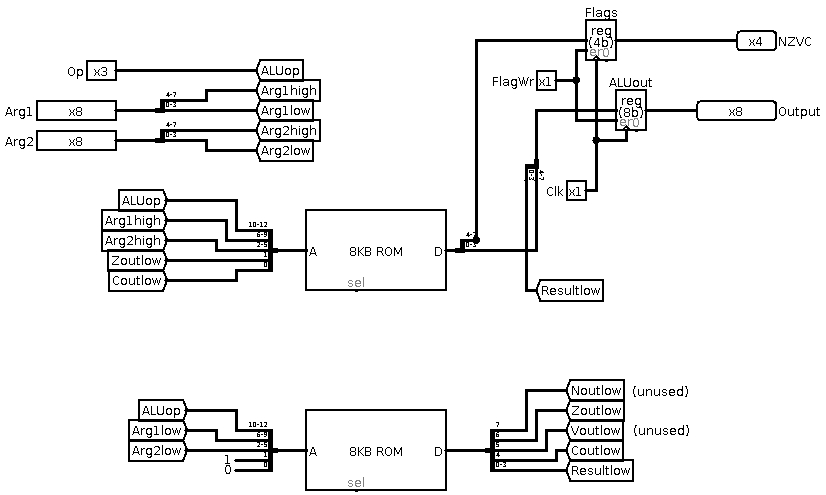
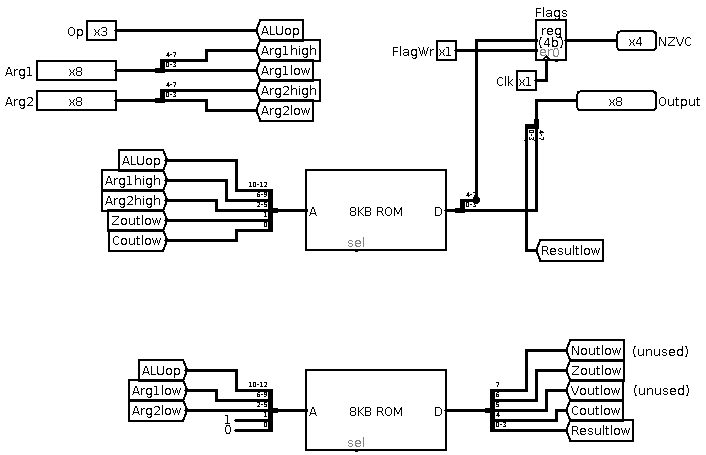
Documenting version 3 of the CPU
The README is not quite complete, but it's mostly there.

Changed region(s): [[0.0, 0.0, 0.9972, 0.6154], [0.1558, 0.7385, 0.966, 1.0], [0.9348, 0.8308, 0.966, 0.8615]]

diff --git a/README.md b/README.md
@@ -2,7 +2,7 @@
 
 ## Warren Toomey, © 2017, GPL3
 
-# Introduction: 8th August 2017
+# Introduction: 22nd August 2017
 
 I stumbled across
 [Ben Eater’s video series on building a working CPU](https://eater.net/8bit/)
@@ -10,49 +10,99 @@ on a breadboard. I had already built some CPUs in the
 [Logisim simulator](http://minnie.tuhs.org/CompArch/Tutes/week03.html) and on
 [an FPGA](http://minnie.tuhs.org/Programs/UcodeCPU/index.html),
 but I hadn’t actually done the wiring by hand.
-I felt constrained by the memory limitations of this Simple As Possible (SAP) CPU, so I decided to design an 8-bit CPU with more instructions and with a larger address space. At the same time, I wondered how few chips I could get away with in the design. Right now, I’m down around 19 chips (on paper) for the CPU proper, not including any I/O or clock circuitry. Here is a quick run-down of the design.
+I felt constrained by the memory limitations of this Simple As Possible (SAP) CPU, so I decided to design an 8-bit CPU with more instructions and with a larger address space. At the same time, I wondered how few chips I could get away with in the design. Right now, the CPU is about 30 chips, not including any I/O or
+clock circuitry. Here is a quick run-down of the design.
 
-My CPU is an 8-bit CPU with a 12-bit address space. There are sixteen opcodes, of which eight of them are ALU operations. There is only one user-visible register, the A register. Each instruction is 16 bits (two bytes) in size:
+My CPU is an 8-bit CPU with a 16-bit address space. There are 64 instructions,
+and eight ALU operations. There are two user-visible register, the A register
+and the B register.
 
-+ the top four bits encode the sixteen opcodes
-+ the remaining 12 bits encode a memory address
+Instructions are 1-byte, 2-bytes or 3-bytes in size:
 
-Here is the list of op-codes at present:
++ the first byte encodes the instruction, although only the first 64
+  values are legal instructions. Single byte instructions operate on
+  the registers, e.g. ADDA performs A= A + B
++ two-byte instructions have a constant in the second byte, e.g.
+  LCA 23 loads the constant 23 into the A register
++ three byte instructions have a memory address stores in the second and
+  third bytes, e.g. JMP 0x2000 jumps to the location 0x2000. Addresses
+  are stored big-endian, i.e. the high byte is stored first in memory.
 
-| Mnemonic | 	   Action 		|
-|:--------:|:--------------------------:|
-| ADD addr | mem[address] += A		|
-| SUB addr | mem[address] -= A		|
-| AND addr | mem[address] &= A		|
-| OR addr  | mem[address] |= A		|
-| XOR addr | mem[address] ^= A		|
-| INC addr | mem[address] += 1		|
-| DEC addr | mem[address] -= 1		|
-| STO addr | mem[address] = A		|
-| LD addr  | A= mem[address]		|
-| JMP addr | PC= address always		|
-| JZ addr  | PC= address if zero	|
-| JNE addr | PC= address if negative	|
-| JC addr  | PC= address if carry	|
-| JV addr  | PC= address if overflow	|
-| SHO	   | Display the A register	|
-| HLT	   | Halt CPU			|
+The two operands for the ALU are the A and B registers. The least significant
+three bits in each instruction encode the ALU operation. The ALU operation is
+not used in every instruction. Here is the list of ALU operations.
 
-The SHO instruction latches the value in the A register into a two-digit hex display, and this is the only output device at present. The HLT instruction really only works in the simulator at present; in the breadboard build I would expect to have to do a JMP to the same instruction (an infinite loop).
+| Operation | 	   ALU Output 		|
+|:---------:|:-------------------------:|
+| ADD       | A + B                     |
+| SUB       | A - B                     |
+| AND       | A & B                     |
+| OR        | A | B                     |
+| XOR       | A ^ B                     |
+| A         | A                         |
+| B         | B                         |
+| B++       | B+1                       |
 
-# The Top-level Design
+As well as an 8-bit output, the ALU produces four flags: zero, negative,
+overflow and carry (NZVC). The overflow and carry flags are only generated
+on the ADD and SUB operations.
+
+For three-byte instructions, the address in the instruction is stored
+in the memory address register (MAR) before the actual work is done.
+
+Here is the current list of instructions:
+
+| Instruction | Action 		|
+|:-----------:|:---------------:|
+| ADDA	| A= A + B              |
+| SUBA	| A= A - B              |
+| ANDA	| A= A & B              |
+| ORA	| A= A | B              |
+| XORA	| A= A ^ B              |
+| JMP   | PC= MAR               |
+| TBA	| A= B                  |
+| INCB	| B++                   |
+| ADDB	| B= A + B              |
+| SUBB	| B= A - B              |
+| ANDB	| B= A & B              |
+| ORB	| B= A | B              |
+| XORB	| B= A ^ B              |
+| TAB	| B= A                  |
+| LCA   | Load constant into A  |
+| LCB   | Load constant into B  |
+| LMA   | A = mem[MAR]          |
+| LMB   | B = mem[MAR]          |
+| SMA	| mem[MAR]= A           |
+| SMB	| mem[MAR]= B           |
+| TTOA	| Send A to the terminal |
+| TTOB	| Send B to the terminal |
+| TTIA	| Read A from the terminal |
+| TTIB	| Read B from the terminal |
+| JLT	| PC= MAR if N set       |
+| JEQ	| PC= MAR if Z set       |
+| JNE	| PC= MAR if Z clear     |
+| JGE	| PC= MAR if N clear     |
+| JLE	| PC= MAR if either Z or N are set |
+| JGT	| PC= MAR if both Z and N are clear |
+| JCS	| PC= MAR if C set       |
+| JVS   | PC= MAR if V set       |
+| JVC   | PC= MAR if V clear     |
+| JCC   | PC= MAR if C clear     |
+| LIA	| A= mem[MAR+B]          |
+| SIA	| mem[MAR+B]= A          |
+| INCM	| mem[MAR]++             |
+| SUB	| A - B, just to set the flags |
+
+# Top-level design
+
 
 ![main design](https://raw.githubusercontent.com/DoctorWkt/eeprom_cpu/master/Figs/main.png)
 
-Above is the top-level design of the CPU. I’m only showing the data paths in the diagram. There is a 2K x 8 ROM and a 2K x 8 RAM, both connected to the horizontal data bus. The data bus is connected to the Instruction Register (IR), a Memory Access Register (MAR), the A register and as one input to the ALU.
+Above is the top-level design of the CPU. I’m only showing the data bus in the diagram. There is an 8K x 8 ROM and a 8K x 8 RAM, both connected to the horizontal data bus. The data bus is connected to the Instruction Register (IR), a high and low Memory Access Register (MAR), the A register and the B register.
 
 The value in the IR is split in half. The top half of the IR is the 4-bit instruction opcode. The lower four bits is combined with the MAR value to be the 12-bit address used to access memory: the IRMAR value.
 
-The output from the ALU is connected through a tri-state buffer back to the data bus. This allows the ALU to write its result back to RAM.
-
-The only output is a register called Ashow which latches the value in the A register on a SHO instruction. This value is displayed in hex on two 7-segment LEDs.
-
-In the top-left is the PC logic. This chooses either the Program Counter (PC)’s value or the IRMAR value as the address to the RAM and ROM. The top address bit selects either the RAM (value 1) or the ROM (value 0). The PC logic contains the PC itself, a muxer and a counter to increment the PC’s value.
+The output from the ALU is connected through a tri-state buffer back to the data bus. This allows the ALU to write its result back to RAM and into the A and B registers.
 
 I haven’t shown the control logic or the control signals yet; these will be covered below.
 
@@ -75,64 +125,60 @@ Below is the current ALU design as implemented in Logisim.
 
 The ALU operation and the two operands come in from the left: Arg1 and Arg2. These are split into 4-bit low and high nibbles, and these nibbles are distributed to the two ALUs. The ROMs looks up and outputs the 4-bit results and the four flag values. The Z and C flags from the lower ALU are cascaded up as inputs to the higher ALU. The low and high ALU results are combined are stored in an 8-bit register. The top NZVC flags are stored in a 4-bit register.
 
-The ALU operations are:
-
-1. Arg1 + Arg2
-2. Arg1 – Arg2
-3. Arg1 AND Arg2
-4. Arg1 OR Arg2
-5. Arg1 XOR Arg2
-6. Arg1 + 1
-7. Arg1 – 1
-8. Arg2
-
-The Arg1 input is wired to the data bus, and the Arg2 input is wired to the A register, so the last operation allows the A register to be written out through the ALU, and eventually over the data bus and back to memory. The STO instruction is implemented using this ALU operation.
-
 As the EEPROM is programmable, any set of eight operations on two 4-bit inputs can be programmed into the EEPROM.
 
-# The PC Logic
+# The PC and Address Logic
 
 ![PC logic](https://raw.githubusercontent.com/DoctorWkt/eeprom_cpu/master/Figs/pclogic.png)
 
-Above is the PC logic as implemented in Logisim. The multiplexer passes either the PC value or the IRMAR value out to the ROM and RAM, controlled by the PCctrl control line. The adder increments the PC’s value based on the PCload control line.
+Above is the PC and address logic as implemented in Logisim. One of three
+address values can be placed on the address bus, which runs vertically in the
+diagram from the multiplexer down to the ROM and RAM. The address value can be:
 
-There is one gotcha. When we do JMP address, the IRMAR address needs to be stored into the PC. However, the adder will add 1 to this value. Therefore, the assembler need to store address-1 in the instruction to circumvent the +1 in the PC logic.
++ the program counter
++ the value of the 16-bit memory address register (MAR)
++ the value of the 16-bit memory address register (MAR) with the B value added in. This allows indexed addressing to be done.
 
-As the data path here is 12-bits, I thought I would need to use an 8-bit register and a 4-bit register for the PC, three 4-bit adder chips and three 4-bit multiplexer chips. That would be eight chips! However, I think I can use three 74LS163 counters for a combination adder/register; this would cut the PC logic down to six chips.
+The PC is implemented as a presettable 16-bit counter. When the PCincr
+control line is enabled, the PC's value increments. When the PCload
+control line is enabled, the PC loads the value from the address bus: this
+is used in the jump instructions.
 
 # The Control Logic
 
-If you look at the design so far, there is very little combinatorial logic: a tri-state buffer, one inverter gate, the two EEPROMs in the ALU and three mux chips in the PC logic. Now we need some serious logic to control all of this. We need these control lines:
+![Control logic](https://raw.githubusercontent.com/DoctorWkt/eeprom_cpu/master/Figs/control1.png)
+
+If you look at the design so far, there is very little combinatorial logic: a tri-state buffer, one inverter gate, the two EEPROMs in the ALU and three mux chips in the PC logic. Now we need some serious logic to control all of this. We need these control lines (as shown in the above diagram):
 
 + Clk: the clock that goes to all sequential circuits
-+ PCctrl: send either the PC or the IRMAR value to the RAM/ROM 
-+ PCload: load a new value into the PC
++ PCload: load a new value from the address bus into the PC
++ PCincr: get the PC to increment to the next address
++ RAMwrite: write the value on the data bus into RAM
 + IRload: load the instruction register from the data bus
-+ MARload: load the Memory Address Register from the data bus
++ HMload: load the high byte of the Memory Address Register from the data bus
++ LMload: load the low byte of the Memory Address Register from the data bus
 + Aload: load the A register from the data bus
-+ FlagWr: store the ALU output and the flags in the two registers in the ALU
-+ RAMwrite: write the ALU’s value on the data bus into RAM
-+ SHOload: load the Ashow register when we do the SHO instruction
-+ ALUop (3 bits): The ALU operation to be performed
++ Bload: load the B register from the data bus
++ ALUwrite: place the ALU's output onto the data bus
++ MEMdisa: disable the RAM and ROM, so that the ALU output can be sent to either the A or B registers
++ FlagWr: latch the NZCV flags from the ALU. This allows these to be set in one instruction, e.g. a subtraction, and then tested in a second instruction, e.g. a jump if negative instruction.
++ MAMux (2 bits): Choose either the PC, the MAR, or MAR+B as the address to be placed on the address bus.
 
 We have to enable and disable all of these in some sequence in order to perform each CPU instruction. One way to build this logic would be to hard-wire a bunch of logic gates, but this would  violate my design goal of a minimal number of chips.
 
 Instead, I’ve implemented my control logic with some EEPROMs as shown below.
 
-![Control logic](https://raw.githubusercontent.com/DoctorWkt/eeprom_cpu/master/Figs/control.png)
+![Control logic](https://raw.githubusercontent.com/DoctorWkt/eeprom_cpu/master/Figs/control2.png)
 
-There is a 2-bit counter that produces four phases in each instruction. The phase, plus the current instruction opcode and the value of the NZVC flags go into the two EEPROMs. These look up the appropriate control line values for this opcode/phase/NZVC combination.
+There is a 3-bit counter that produces eight phases in each instruction. The phase, plus the current instruction opcode and the value of the NZVC flags go into the two EEPROMs. These look up the appropriate control line values for this opcode/phase/NZVC combination.
 
-The four phases are:
+The file `control_logic` holds the list of control lines that are enabled
+or disabled on each phase of each instructions.
 
-+ Phase 0: load the IR register. We enable IRload to load the IR from the data bus, and we enable PCload to increment the PC.
-+ Phase 1: load the MAR register. We enable MARload to load the MAR from the data bus, and we enable PCload to increment the PC.
-+ Phase 2: perform the ALU operation. Typically, PCctrl is set to 1 to send the IRMAR value to the RAM. The data bus now holds a data value from RAM which goes into the ALU. The A register also goes into the ALU, and the ALUop tells the ALU what to do. FlagWr is enabled to latch the ALU’s output and the flag bits. We can’t write the ALU value to RAM yet, because we are already using the data bus to fetch a value from the RAM!
-+ Phase 3: Write the latched ALU value back to RAM: RAMwrite is enabled, and Pcctrl is still keeping IRMAR as the address to the RAM. Alternatively, we are doing one of the “jump” instructions. If the jump instruction matches up with one of the NZVC flags, set PCctrl to 1 and set PCload to 1, so that the PC is loaded from the IRMAR value.
+# Status of the CPU: 22nd August 2017
 
-There are only ten input bits to the two EEPROMs: four opcode bits, four NZVC bits and two phase bits. Unforunately, we need more that eight bits of output; that’s why there are two 1K x 8 EEPROMs.
-
-# Status of the CPU: 8th August 2017
+I haven't written the rest of the document yet, so don't read the stuff
+below.
 
 Here is what I’ve got to so far. I’ve written a Perl script to read in a program in (my own) assembly language and convert this to the binary instructions. The script outputs the code in a format that Logisim can load into a simulated ROM chip. The script also simulates the assembly program: this was useful to confirm that things worked.
 

diff --git a/INSTALL.md b/INSTALL.md
@@ -16,7 +16,7 @@ This will
 + simulate the program. You should see the Fibonacci series being printed out in hexadecimal
 
 Now that you know that the `fib.s` program should run correctly, run Logisim
-and open up the file `eprocpu.circ`. This is the CPU design that I've done so
+and open up the file `ep16cpu.circ`. This is the CPU design that I've done so
 far.
 
 Right-click on the ALU and view the ALU. This should open up a display of the
